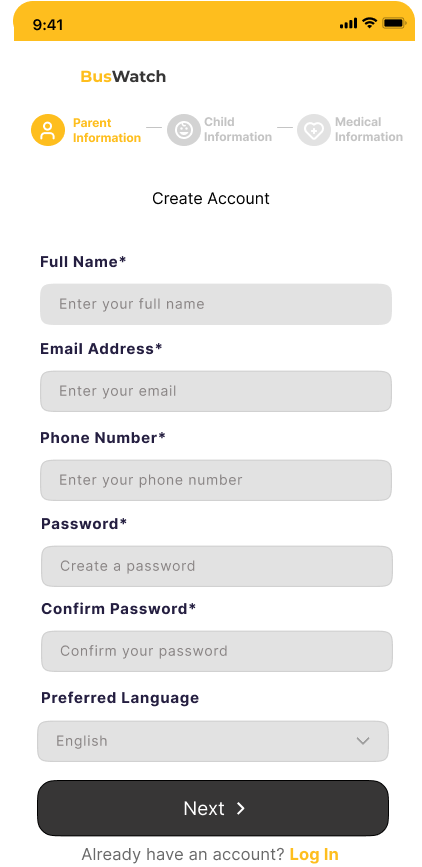
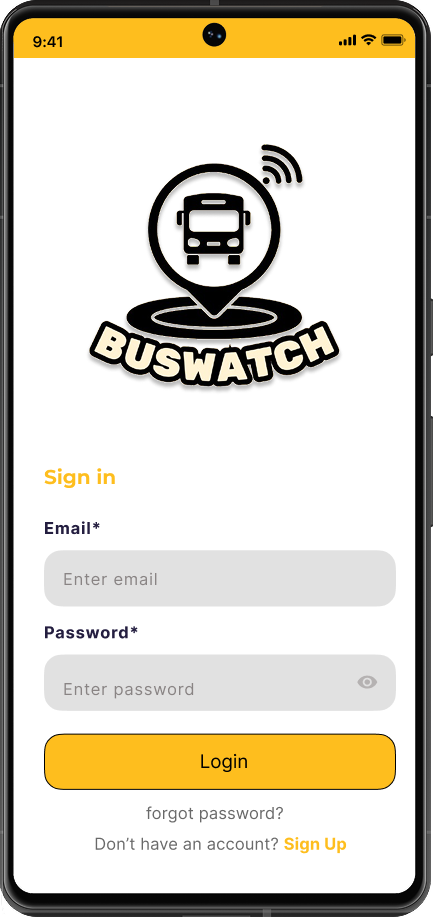
feat(buswatch): replace case study images with 4 ordered screens and update cover

diff --git a/src/app/work/[slug]/page.tsx b/src/app/work/[slug]/page.tsx
@@ -54,120 +54,53 @@ const buswatchScreens: ScreenItem[] = [
     caption: "Official BusWatch brand launch screen featuring the signature school bus yellow identity, navigation pin, and wireless signal indicator.",
   },
   {
-    id: "parent-dashboard",
-    title: "Parent Home Dashboard",
-    src: "/images/projects/buswatch/routes-list.png",
-    caption: "Parent home dashboard tracking real-time status of each child ('On The Bus', 'At School', 'At Home') with glanceable route alert cards.",
-  },
-  {
-    id: "live-tracking",
-    title: "Live GPS & Route Telemetry",
-    src: "/images/projects/buswatch/live-tracking.png",
-    caption: "Real-time interactive route map showing driver details (Mike Johnson), calibrated 10-minute ETA, and live vehicle navigation path.",
-  },
-  {
-    id: "driver-pickup",
-    title: "Driver & Pickup Reminder",
-    src: "/images/projects/buswatch/bus-details.png",
-    caption: "Driver verified profile, scheduled morning pickup time, home pickup location, and instant 'Notify me when 5 mins away' reminder trigger.",
-  },
-  {
-    id: "onboarding-1",
-    title: "Onboarding: GPS Tracking",
+    id: "onboarding-tracking",
+    title: "Live GPS & Tracking",
     src: "/images/projects/buswatch/onboarding-1.png",
     caption: "First onboarding step educating parents on accurate live GPS route updates and arrival predictability.",
   },
   {
+    id: "onboarding-security",
+    title: "Secure & Private",
+    src: "/images/projects/buswatch/onboarding-2.png",
+    caption: "Security and data protection overview ensuring student location and personal details remain confidential.",
+  },
+  {
     id: "sign-in",
     title: "Parent Account Sign In",
-    src: "/images/projects/buswatch/onboarding-3.png",
-    caption: "Secure parent authentication screen for accessing student routes and bus telemetry.",
-  },
-  {
-    id: "safety-registration",
-    title: "Safety & Emergency Form",
-    src: "/images/projects/buswatch/home-map.png",
-    caption: "Dedicated safety registration form capturing blood type, allergies, medical conditions, and dual emergency contact information.",
-  },
-  {
-    id: "bus-info",
-    title: "Bus & Driver Info",
-    src: "/images/projects/buswatch/bus-info.png",
-    caption: "Bus details screen showing active status, seat availability (12 seats), capacity (40 students), and verified driver credentials.",
-  },
-  {
-    id: "parent-details",
-    title: "Parent Details & Children",
-    src: "/images/projects/buswatch/parent-details.png",
-    caption: "Parent profile details displaying registered children (Justin & Kylie Wilson: 'AT HOME') and emergency contact numbers.",
-  },
-  {
-    id: "student-general",
-    title: "Student Details: General",
-    src: "/images/projects/buswatch/student-details.png",
-    caption: "Student general information capturing school enrollment (The Immaculate Mother Academy), residential address, and parent behavioral notes.",
-  },
-  {
-    id: "student-medical",
-    title: "Student Details: Medical",
-    src: "/images/projects/buswatch/student-medical.png",
-    caption: "Comprehensive medical and allergy profile tracking Blood Type A+, health insurance, primary physician, dietary restrictions, and emergency inhaler/EpiPen instructions.",
+    src: "/images/projects/buswatch/signin.png",
+    caption: "Secure authentication interface for parents and guardians to access real-time student transit data.",
   },
 ];
 
 const buswatchFlowSteps: FlowStep[] = [
   {
     step: "Step 01",
-    title: "Onboarding & Trust Building",
-    description: "Illustrative 3-step walkthrough introducing parents to real-time telemetry, automated reminders, and schedule safety.",
-    src: "/images/projects/buswatch/onboarding-1.png",
+    title: "Brand Launch & Identity",
+    description: "Signature warm amber splash screen introducing the BusWatch connected transit brand mark.",
+    src: "/images/projects/buswatch/splash.png",
   },
   {
     step: "Step 02",
-    title: "Parent Home Dashboard",
-    description: "Glanceable overview of all children with live status tags ('On the Bus', 'At School', 'At Home').",
-    src: "/images/projects/buswatch/routes-list.png",
+    title: "Real-time GPS Tracking",
+    description: "Clear introductory onboarding educating parents on real-time arrival predictability and route safety.",
+    src: "/images/projects/buswatch/onboarding-1.png",
   },
   {
     step: "Step 03",
-    title: "Live Route & Driver Telemetry",
-    description: "Map view with GPS pin, live traffic route line, ETA countdown, and verified driver credentials.",
-    src: "/images/projects/buswatch/live-tracking.png",
+    title: "Security & Data Governance",
+    description: "Reassurance interface reinforcing rigorous child data privacy and encryption protections.",
+    src: "/images/projects/buswatch/onboarding-2.png",
   },
   {
     step: "Step 04",
-    title: "Driver Contact & Reminders",
-    description: "Direct contact line with bus driver and automated alerts 5 minutes prior to bus arrival.",
-    src: "/images/projects/buswatch/bus-details.png",
+    title: "Parent Sign In & Access",
+    description: "Streamlined single-screen credential entry allowing immediate access to family tracking.",
+    src: "/images/projects/buswatch/signin.png",
   },
 ];
 
-const buswatchAdditionalGallery: FlowStep[] = [
-  {
-    step: "UI Screen",
-    title: "Notifications & Alert Feed",
-    description: "Comprehensive log of transit alerts, boarding timestamps, and school announcements.",
-    src: "/images/projects/buswatch/notifications.png",
-  },
-  {
-    step: "UI Screen",
-    title: "Route Timetable & Schedule",
-    description: "Detailed daily schedule with morning and afternoon pickup/drop-off time windows.",
-    src: "/images/projects/buswatch/schedule.png",
-  },
-  {
-    step: "UI Screen",
-    title: "Stop Details & Route Stops",
-    description: "Inspection view of individual stops along the bus route with estimated stop times.",
-    src: "/images/projects/buswatch/stop-details.png",
-  },
-  {
-    step: "UI Screen",
-    title: "Parent Profile & Settings",
-    description: "Account settings, student management, linked emergency contacts, and notifications.",
-    src: "/images/projects/buswatch/profile-screen.png",
-  },
-];
+const buswatchAdditionalGallery: FlowStep[] = [];
 
 // -------------------------------------------------------------
 // VERAE DATA (Luxury E-Commerce Dashboard)
@@ -426,7 +359,7 @@ export default async function CaseStudyPage({ params }: CaseStudyPageProps) {
         )}
 
         {/* Additional Screens & UI Kit Catalog (4-Card Responsive Grid) */}
-        {!isBerryGuard && (
+        {!isBerryGuard && additionalGallery.length > 0 && (
           <ScrollReveal>
             <FlowGallery
               steps={additionalGallery}

diff --git a/src/app/work/WorkGallery.tsx b/src/app/work/WorkGallery.tsx
@@ -52,7 +52,7 @@ export default function WorkGallery({ projects }: { projects: Project[] }) {
                 coverImage={
                   project.coverImage ||
                   (project.slug === "buswatch"
-                    ? "/images/projects/buswatch/live-tracking.png"
+                    ? "/images/projects/buswatch/splash.png"
                     : "/images/projects/verae/orders.png")
                 }
               />

diff --git a/src/components/ProjectCard.tsx b/src/components/ProjectCard.tsx
@@ -22,7 +22,7 @@ export default function ProjectCard({
 }: ProjectCardProps) {
   const fallbackImage =
     slug === "buswatch"
-      ? "/images/projects/buswatch/live-tracking.png"
+      ? "/images/projects/buswatch/splash.png"
       : slug === "berryguard"
         ? "/images/projects/berryguard/logo.png"
         : "/images/projects/verae/orders-ledger.png";
